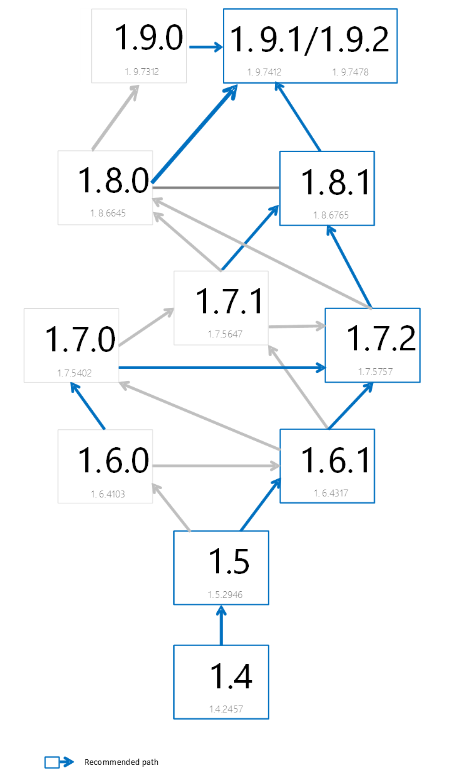
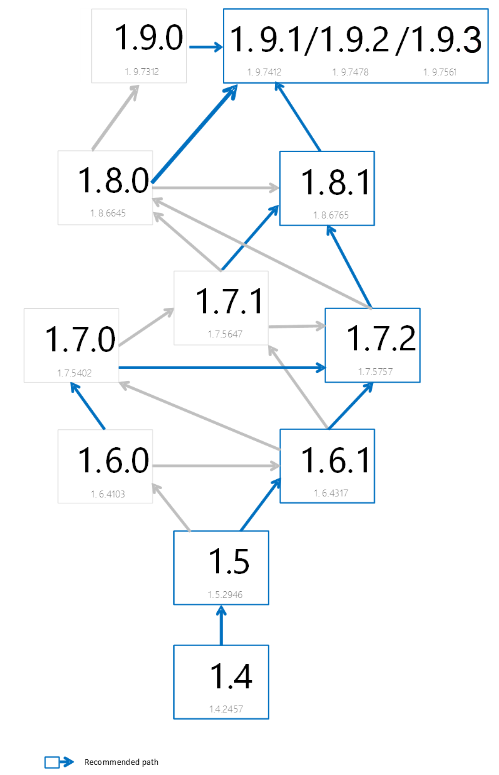
Add version 1.9.3 to upgrade path

diff --git a/ATADocs/upgrade-path.md b/ATADocs/upgrade-path.md
@@ -7,7 +7,7 @@ keywords:
 author: shsagir
 ms.author: shsagir
 manager: shsagir
-ms.date: 05/26/2019
+ms.date: 09/15/2020
 ms.topic: conceptual
 ms.prod: advanced-threat-analytics
 ms.technology:
@@ -30,14 +30,13 @@ ms.suite: ems
 
 This article provides information about available Advanced Threat Analytics versions and how to upgrade ATA depending on which version you have running.
 
-
 ## ATA versions
 
 |Version|Build #|
 |----|----|
 |1.6|1.6.4103|
 |1.6 Update 1|1.6.4317|
-|1.7|1.7.5402| 
+|1.7|1.7.5402|
 |1.7 Update 1|1.7.5647|
 |1.7 Update 2|1.7.5757|
 |1.8|1.8.6645|
@@ -45,17 +44,18 @@ This article provides information about available Advanced Threat Analytics vers
 |1.9|1.9.7312|
 |1.9 Update 1|1.9.7412|
 |1.9 Update 2|1.9.7478|
+|1.9 Update 2|1.9.7561|
 
 ## Upgrade paths
 
-Refer to the upgrade path diagram to determine the correct upgrade path for your current installation. 
+Refer to the upgrade path diagram to determine the correct upgrade path for your current installation.
 
 ![ATA version upgrade path](media/upgrade-path-ata.png)
 
 ## See Also
+
 - [ATA prerequisites](ata-prerequisites.md)
 - [ATA capacity planning](ata-capacity-planning.md)
 - [Configure event collection](configure-event-collection.md)
 - [Configuring Windows event forwarding](configure-event-collection.md)
 - [Check out the ATA forum!](https://social.technet.microsoft.com/Forums/security/home?forum=mata)
-
